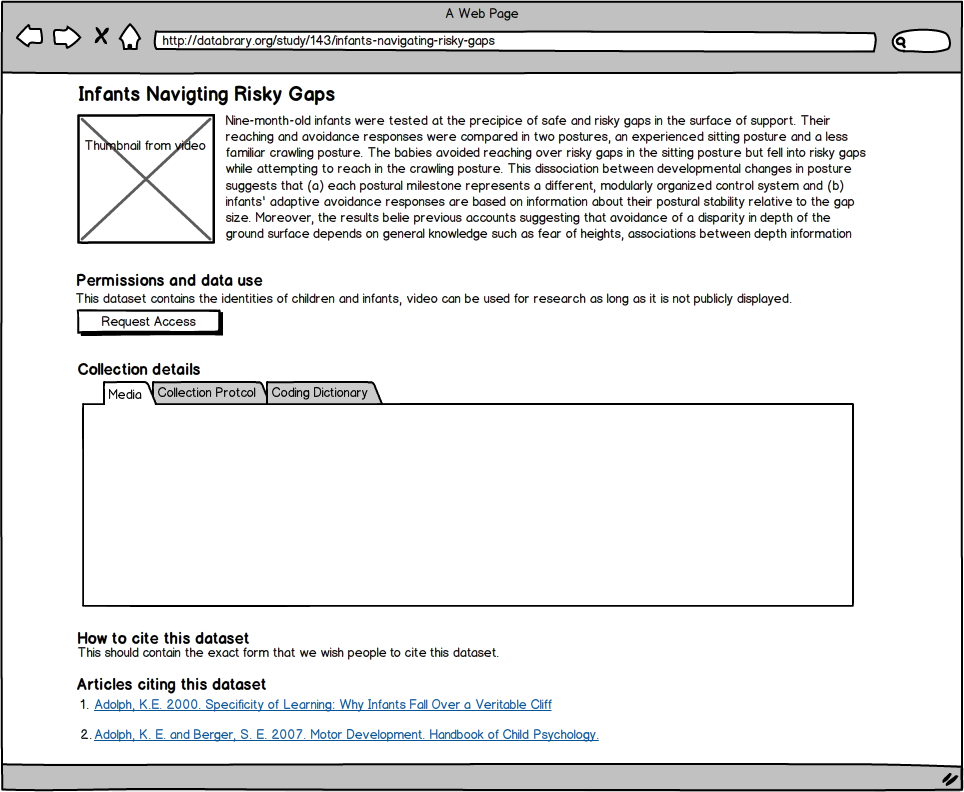
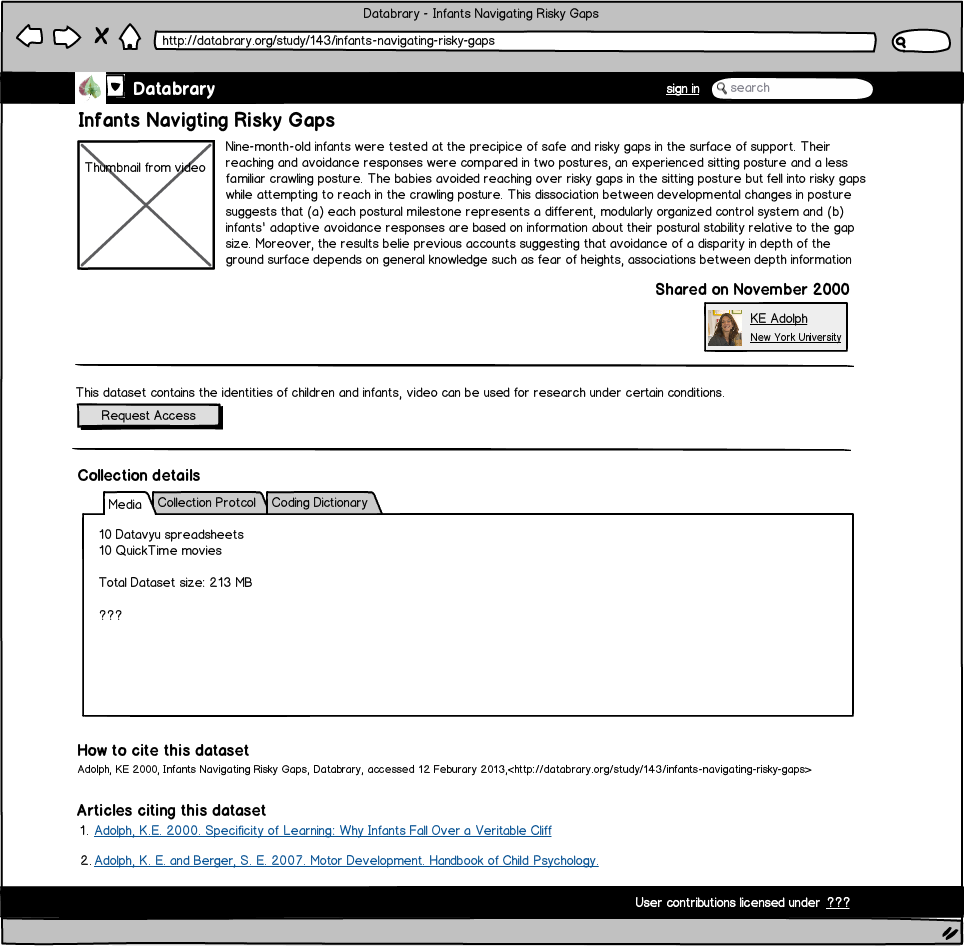
Added citation and author details to study public view.

Changed region(s): [[0.0, 0.0, 1.0, 0.6667], [0.0, 0.7576, 1.0, 1.0]]

diff --git a/architectural_philosophy.md b/architectural_philosophy.md
@@ -1,0 +1,9 @@
+## Architectural Philosophy
+
+### Open Access
+
+As much data as ethically and legally possible should be open access, providing unrestricted access to everything that does not contain any personal or sensitive data.
+
+
+
+
